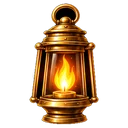
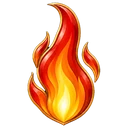
Racha: llama ilustrada en lugar del farol (cache 48)
Claude-Session: https://claude.ai/code/session_01A1K7Ct3kZoDeRkFiucYXDh

diff --git a/sw.js b/sw.js
@@ -38,7 +38,7 @@
 // styles/main.css, src/data/medals.js, src/utils/store.js y src/online/duels.js (ya en el shell).
 // 2.0 (Prompt 5, tarjeta de compartir): subido de 10 a 11; nuevo src/share/share-card.js
 // (añadido al shell) y cambiaron index.html y src/online/duels.js.
-const CACHE_VERSION = 47;
+const CACHE_VERSION = 48;
 const CACHE_NAME = `sedq-shell-v${CACHE_VERSION}`;
 
 // Rutas relativas al propio sw.js (que vive en la raíz de la app, tanto en
